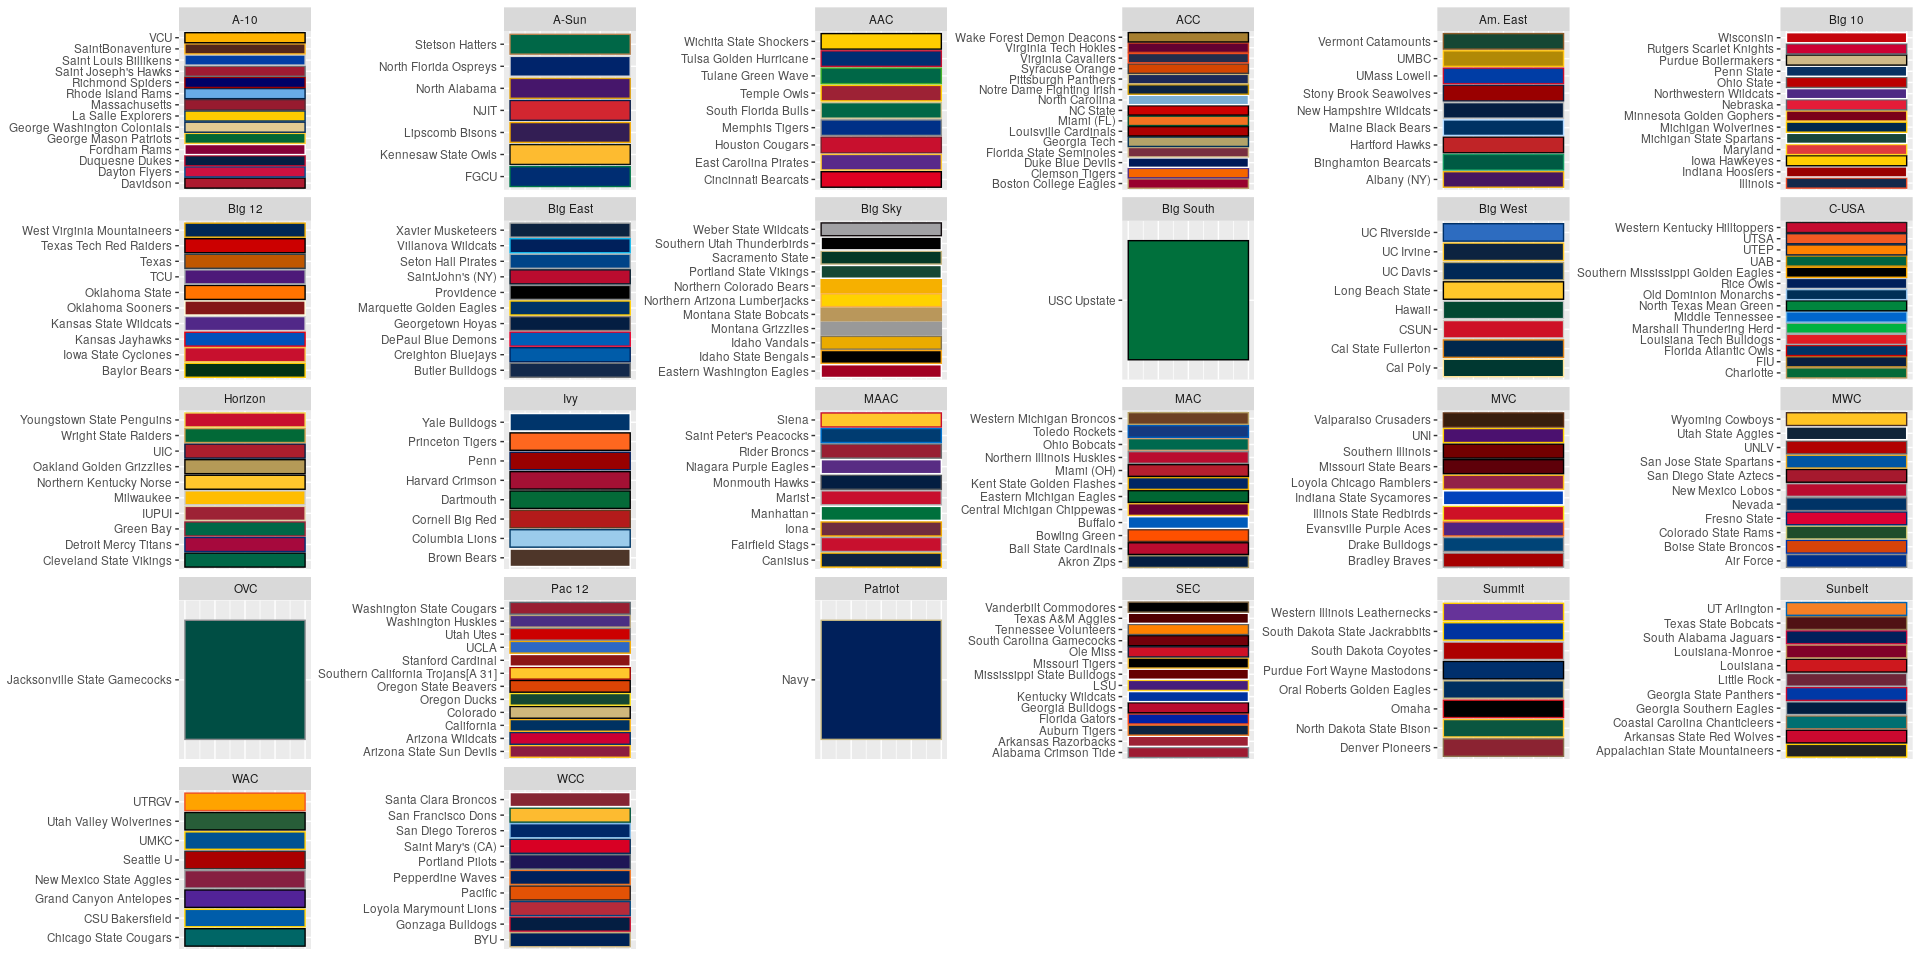
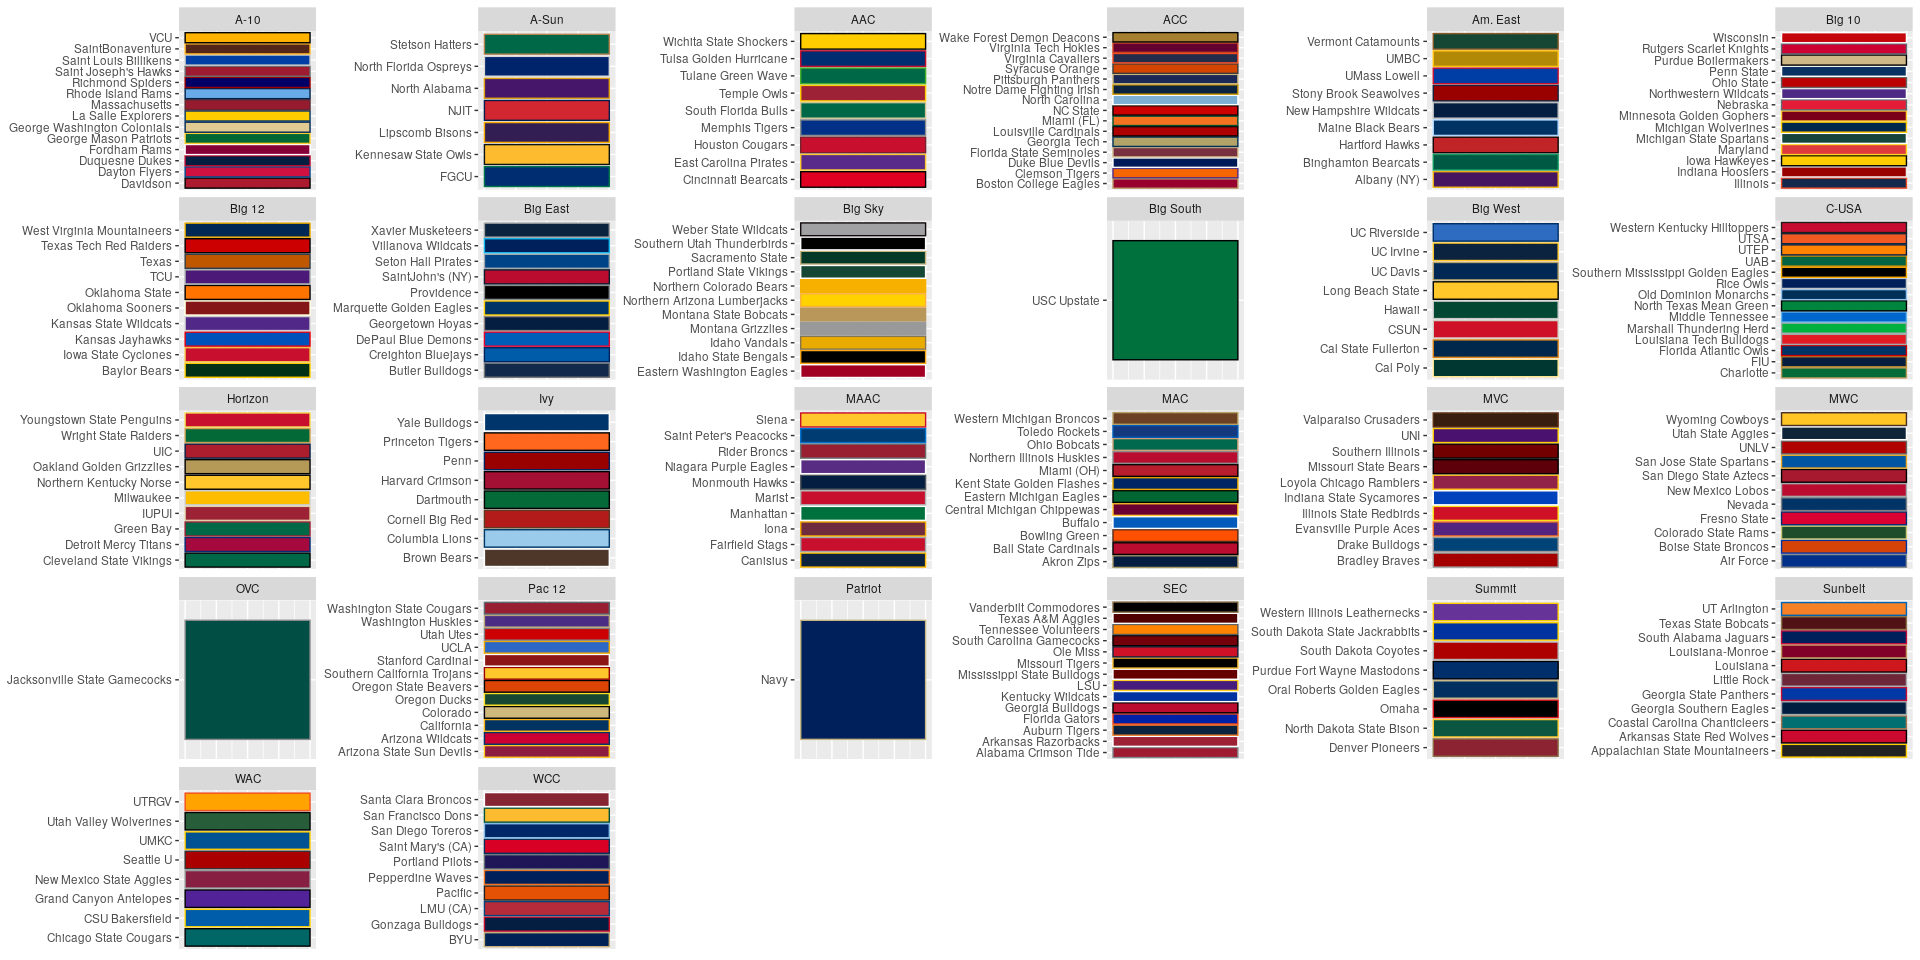
close #20

diff --git a/README.md b/README.md
@@ -187,7 +187,7 @@ teamcolors %>%
     ## 2 mlb           30        30
     ## 3 mls           22        22
     ## 4 nba           30        30
-    ## 5 ncaa         248       247
+    ## 5 ncaa         248       248
     ## 6 nfl           32        32
     ## 7 nhl           31        31
     ## 8 nwsl           9         9
